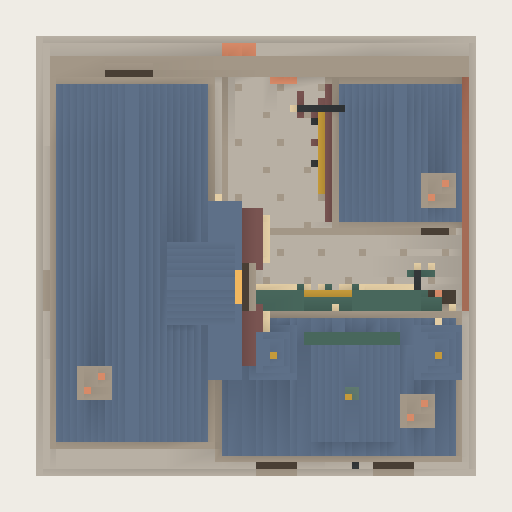
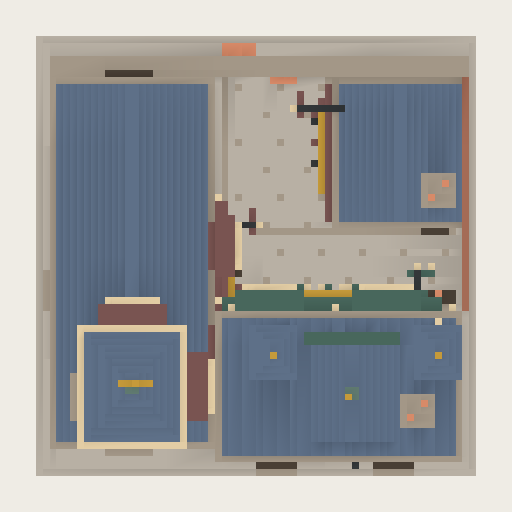
refine(diagon): lower wine shop to two storeys and add rear landmark spire

Changed region(s): [[0.125, 0.375, 0.5312, 0.9062]]

diff --git a/src/generators/diagonAlley.js b/src/generators/diagonAlley.js
@@ -9,13 +9,14 @@ export function diagonAlleySpec() {
     cap:{type:"gable",heightVoxels:roofHeight,orientation},
     materials:{wall,roof:"slate",trim:"timber",window:"warmWindow"},facade:{enabled:false}
   });
-  const spec=createUrbanMassingSpec({id:DIAGON_ASSET_ID,seed:"diagon-alley-v3",widthCells:2,depthCells:2,
-    masses:[shop("wand-shop",-18,-1,22,52,44,"shopWine",17),
+  const spec=createUrbanMassingSpec({id:DIAGON_ASSET_ID,seed:"diagon-alley-v4",widthCells:2,depthCells:2,
+    masses:[shop("wand-shop",-18,-1,22,52,29,"shopWine",12),
       shop("bookshop",12,-19,34,20,31,"shopGreen",10),
       shop("apothecary",21,15,18,20,17,"shopWine",9),
       shop("bookshop-tower",14,-20,12,14,16,"shopGreen",14,31),
-      shop("wand-dormer",-8,-4,10,12,8,"shopWine",7,48,"east_west") ]});
-  return {...spec,assetId:DIAGON_ASSET_ID,assetRevision:3,footprint:{...spec.footprint,worldWidth:8,worldDepth:8}};
+      {...shop("landmark-tower",-18,-19,14,16,28,"shopWine",18,29),
+        cap:{type:"spire",heightVoxels:18}} ]});
+  return {...spec,assetId:DIAGON_ASSET_ID,assetRevision:4,footprint:{...spec.footprint,worldWidth:8,worldDepth:8}};
 }
 
 export function addDiagonDetails(buffer) {
@@ -87,13 +88,20 @@ export function addDiagonDetails(buffer) {
   shopfront(books,"shopGreen",30,"books");
   shopfront(potions,"shopWine",18,"potions");
   for(const u of [3,18]) oriel(wand,u,19,5,9,"shopWine");
-  // A hanging upper room and projecting casements exaggerate the silhouette
-  // without diagonal geometry or occupying the walking lane at ground level.
-  box("shopWine",-7,31,-17,4,13,24);
-  box("timber",-7,30,-18,5,1,26);box("slate",-7,44,-18,5,2,26);
-  const jetty=facade(-3,-17,"right");
-  for(const u of [3,17]) oriel(jetty,u,33,5,9,"shopWine");
-  const dormer=facade(-3,-10,"right");window(dormer,3,49,5,6);
+  // The two-storey wine shop is the low foreground; a single rear tower
+  // carries the landmark silhouette rather than a full extra storey.
+  const towerFront=facade(-25,-11,"front"), towerSide=facade(-11,-27,"right");
+  oriel(towerFront,4,41,6,12,"shopWine");
+  oriel(towerSide,5,41,6,12,"shopWine");
+  for(const y of [39,55]) {
+    box("sandstone",-26,y,-28,16,1,18);
+    if(y===55) box("shopWine",-25,y+1,-27,14,1,16);
+  }
+  for(const x of [-25,-12]) box("sandstone",x,40,-11,1,15,1);
+  for(const z of [-27,-12]) box("sandstone",-11,40,z,1,15,1);
+  box("patinaMetal",-19,75,-20,2,3,2);
+  box("gildedMetal",-18,78,-19,1,4,1);
+  box("gildedMetal",-20,80,-19,5,1,1);
   const tower=facade(8,-13,"front");window(tower,3,36,5,9);
   box("shopGreen",7,32,-13,14,2,2);box("shopGreen",7,46,-13,14,2,2);
   // A tiny copper finial tops the disproportionately tall bookshop roof.
@@ -115,21 +123,23 @@ export function addDiagonDetails(buffer) {
   }
   // Street-facing end elevations, with fewer windows than the shop fronts.
   const wandEnd=facade(-29,25,"front");
-  for(const y of [21,35]) window(wandEnd,8,y,5,6);
+  window(wandEnd,8,21,5,6);
   // Restrained service elevations keep the asset complete when the city rotates.
   const rearWand=facade(-29,-7,"left"), rearBooks=facade(-5,-30,"back");
-  for(const y of [20,34]) window(rearWand,0,y,4,6);
+  window(rearWand,0,20,4,6);
+  window(facade(-25,-27,"back"),4,43,5,8);
+  window(facade(-25,-23,"left"),0,43,5,8);
   for(const u of [6,23]) window(rearBooks,u,21,4,6);
   rearBooks("timber",15,1,0,5,11);rearBooks("iron",19,5,1,1,1);
-  box("iron",-30,1,-23,1,42,1);box("iron",27,1,-30,1,29,1);
-  for(const [x,z,w,d,levels] of [[-29,-27,22,52,[15,30,43]],[-5,-29,34,20,[16,30]],[12,5,18,20,[16]]]) {
+  box("iron",-30,1,-23,1,28,1);box("iron",27,1,-30,1,29,1);
+  for(const [x,z,w,d,levels] of [[-29,-27,22,52,[15,28]],[-5,-29,34,20,[16,30]],[12,5,18,20,[16]]]) {
     for(const y of levels) {
       box("stoneShadow",x-1,y,z-1,w+2,1,1);box("stoneShadow",x-1,y,z+d,w+2,1,1);
       box("stoneShadow",x-1,y,z,1,1,d);box("stoneShadow",x+w,y,z,1,1,d);
     }
   }
   // Chimneys give the grouped roofs a recognisable old-London silhouette.
-  for(const [x,z,y,h] of [[-25,-20,44,18],[22,-24,31,16],[25,8,14,12]]) {
+  for(const [x,z,y,h] of [[22,-24,31,16],[25,8,14,12]]) {
     box("brickBrown",x,y,z,3,h,3);box("stoneShadow",x-1,y+h,z-1,5,1,5);
     box("brickRed",x,y+h+1,z,1,3,1);box("brickRed",x+2,y+h+1,z+2,1,3,1);
   }
@@ -157,7 +167,7 @@ export function addDiagonDetails(buffer) {
 export function createDiagonAlley({cellWorldSize=4,nightLighting=0}={}) {
   const root=createVoxelMassingLab({spec:diagonAlleySpec(),renderStrategy:"greedy",nightLighting,voxelDetailPass:addDiagonDetails});
   root.name="DiagonAlley";root.scale.setScalar(cellWorldSize/4);
-  root.userData={...root.userData,assetId:DIAGON_ASSET_ID,assetRevision:3,representation:"special-landmark-voxel",
+  root.userData={...root.userData,assetId:DIAGON_ASSET_ID,assetRevision:4,representation:"special-landmark-voxel",
     sphereProjectionRoot:true,footprint:"2x2",entrance:"north",authoredParcelSize:8,voxelSize:.125};
   return root;
 }

diff --git a/test/diagonAlley.test.js b/test/diagonAlley.test.js
@@ -9,6 +9,12 @@ import {createMagicLondonStarterDistrict} from "../src/generators/magicLondonSta
 import {renderBuildingVisualization} from "../src/render/buildingVisualization.js";
 
 test("alley remains on the shared voxel grid and within its parcel in all orientations",()=>{
+  const masses=diagonAlleySpec().masses;
+  assert.equal(masses.find(m=>m.id==="wand-shop").heightVoxels,29);
+  const tower=masses.find(m=>m.id==="landmark-tower");
+  assert.equal(tower.cap.type,"spire");
+  assert.ok(tower.baseYVoxels+tower.heightVoxels+tower.cap.heightVoxels>70);
+  assert.ok(!masses.some(m=>m.id==="wand-dormer"));
   const model=createDiagonAlley();let triangles=0;
   model.traverse(m=>{if(!m.isMesh)return;
     triangles+=(m.geometry.index?.count??m.geometry.attributes.position.count)/3;

diff --git a/docs/visual-development/diagon-alley-001/README.md b/docs/visual-development/diagon-alley-001/README.md
@@ -1,8 +1,8 @@
-# 斜角巷 · 2×2 体素商业街（第三版）
+# 斜角巷 · 2×2 体素商业街（第四版）
 
-三层魔杖店、带高阁楼的书店、低矮药剂店夹出一条 L 形内部巷道。入口朝 +Z，地块为 8×8 世界单位。临街砖墙定格在正在打开的状态：不规则窄缝、前后错动砖端，保留隐蔽感，不含动画。巷道先向里再右转，保持第二版收窄后的布局。
+两层魔杖店、带高阁楼的书店、低矮药剂店夹出一条 L 形内部巷道，魔杖店后部增加独立高塔体量，形成地标。入口朝 +Z，地块为 8×8 世界单位。临街砖墙定格在正在打开的状态：不规则窄缝、前后错动砖端，保留隐蔽感，不含动画。巷道先向里再右转，保持第二版收窄后的布局。
 
-第三版根据用户提供的彩色魔法商店参考，将底商酒红、墨绿延伸至全部上层墙面与山墙，增加竖向凸窗、浅色细饰边、成组阶梯尖塔与金属顶饰。保留大老虎窗和悬挑房间。本版供继续审美迭代，不是整条电影街景的缩比复刻。
+延续第三版整栋酒红、墨绿配色和凸窗装饰。第四版移除酒红主楼的悬挑第三层与大老虎窗，将主体降至两层，后部新增高塔：细长双面凸窗、分层檐口、陡尖顶及金属风向标。墨绿店铺的小塔作为陪衬，形成前低后高的主次关系。
 
 ![正面](front.png)
 
@@ -15,7 +15,7 @@
 - 整栋酒红、墨绿墙面，旧红砖入口，共用蓝灰板岩屋顶和暖琥珀窗光；浅砂色仅作窄饰边，不作大面积墙底。
 - 新增 `shopGreen`、`shopWine` 哑光漆木材质，用于底层店面和吊牌；使用既有 painted 表面着色，非金属、非自发光。
 - `src/generators/diagonAlley.js` 是固定资产源，复用 UrbanMassingSpec、VoxelInstanceBuffer 与 greedy meshing；所有面位于 0.125 体素网格。
-- 7742 三角形；已有/新建 2×2 斜角巷、放置预览、CPU 可视化共用工厂。非 2×2 历史记录保留旧路径。
+- 7762 三角形；已有/新建 2×2 斜角巷、放置预览、CPU 可视化共用工厂。非 2×2 历史记录保留旧路径。
 - 不改变卡牌遮蔽效果、成本或其他玩法。巷道为资产内部视觉空间，不写入城市道路网络。
 - CPU 预览采用简化日光，不完整代表游戏内 AO、动态阴影和夜间发光。
 
